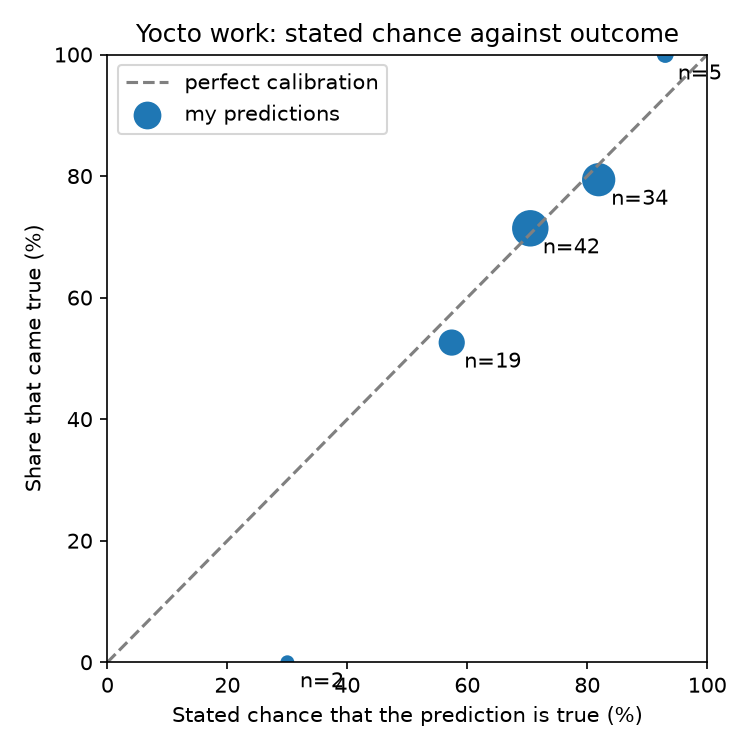
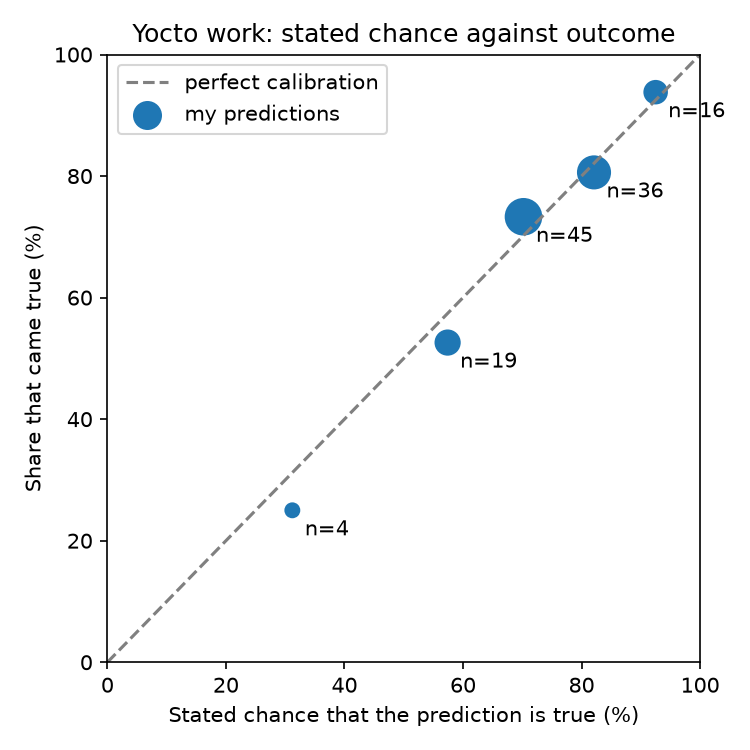
Update scorecard to P224 and regenerate README numbers and calibration figure
Adds 23 rows. P197 to P199, P201 and P202 are not recoverable and are not included.

AI-assisted: drafted with Claude, checked by the author.
Claude-Session: https://claude.ai/code/session_01RGFvSaDeTHSFaoiT4yfR4T

diff --git a/README.md b/README.md
@@ -14,7 +14,7 @@ Every number below comes from a script in `scripts/` run on the real files, and 
 | Yocto image SBOM | SPDX 3.x JSON, 46.8 MB: 257 packages, 37,122 files, 292 vulnerability elements | results/sbom_counts.json |
 | MCUboot SBOM (mine) | SPDX 2.3 tag-value, 2,511 bytes: 5 package entries (2 image entries and 3 components), 0 files, 7 relationships | results/sbom_counts.json |
 | CVE report | 36 packages scanned, 20 with database matches: 22,246 Patched, 145 Unpatched, 112 Ignored; 10 packages carry Unpatched matches, and `linux-yocto` holds 116 of the 145 | results/totals.json, results/packages.csv |
-| My predictions | 113 rows: 75 hit, 31 missed, 7 not scored; 70.8% of scored predictions came true against a mean stated chance of 72.2% (102 rows with a stated chance) | results/scorecard_totals.json |
+| My predictions | 136 rows: 95 hit, 33 missed, 8 not scored; 74.2% of scored predictions came true against a mean stated chance of 73.4% (120 rows with a stated chance) | results/scorecard_totals.json |
 
 Figures: `results/fig_unpatched_by_package.png`, `results/fig_sbom_scale.png`, `results/fig_calibration.png`.
 
@@ -22,13 +22,13 @@ The two SBOMs are not like for like, and the comparison says why: [docs/COMPARIS
 
 ## What went wrong, and is kept
 
-The build was killed by a laptop restart at task 3875 of 4349 and left six zero-byte object files, which failed the final link of `gcc`. `runqemu` refused the setup's machine fragment, then the compressed image, and then the first root login. Each cause and fix is in [docs/SETUP.md](docs/SETUP.md). 31 of my predictions missed, and every miss has a note in [docs/scorecard.csv](docs/scorecard.csv).
+The build was killed by a laptop restart at task 3875 of 4349 and left six zero-byte object files, which failed the final link of `gcc`. `runqemu` refused the setup's machine fragment, then the compressed image, and then the first root login. Each cause and fix is in [docs/SETUP.md](docs/SETUP.md). 33 of my predictions missed, and every miss has a note in [docs/scorecard.csv](docs/scorecard.csv).
 
 ## Limits
 
 - One image, one machine, one build, one day. The vulnerability databases were fetched on 18 November 2026 at their latest revision, so another day gives different counts.
 - "Unpatched" means a database match with no fix recorded. I have not triaged the 145, so none of them is a confirmed vulnerability. The kernel list includes very old entries, and the 22,246 "Patched" figure is a count of matched database entries, not a count of risks.
-- The scorecard was rebuilt from my record of the session, one row per stated prediction. Earlier predictions that are not in that record are missing from it, and some stated chances are blank because I did not have them. The predictions are not independent: several misses share one cause.
+- The scorecard was rebuilt from my record of the session, one row per stated prediction. Earlier predictions that are not in that record are missing from it, including P197 to P199, P201 and P202, whose text I could not recover, and some stated chances are blank because I did not have them. The predictions are not independent: several misses share one cause.
 - The image has an empty root password for QEMU testing. It is a lab image and must never go on a real device.
 - Not done: running the image on real hardware, and reasoning about which kernel CVEs apply to this kernel configuration.
 
